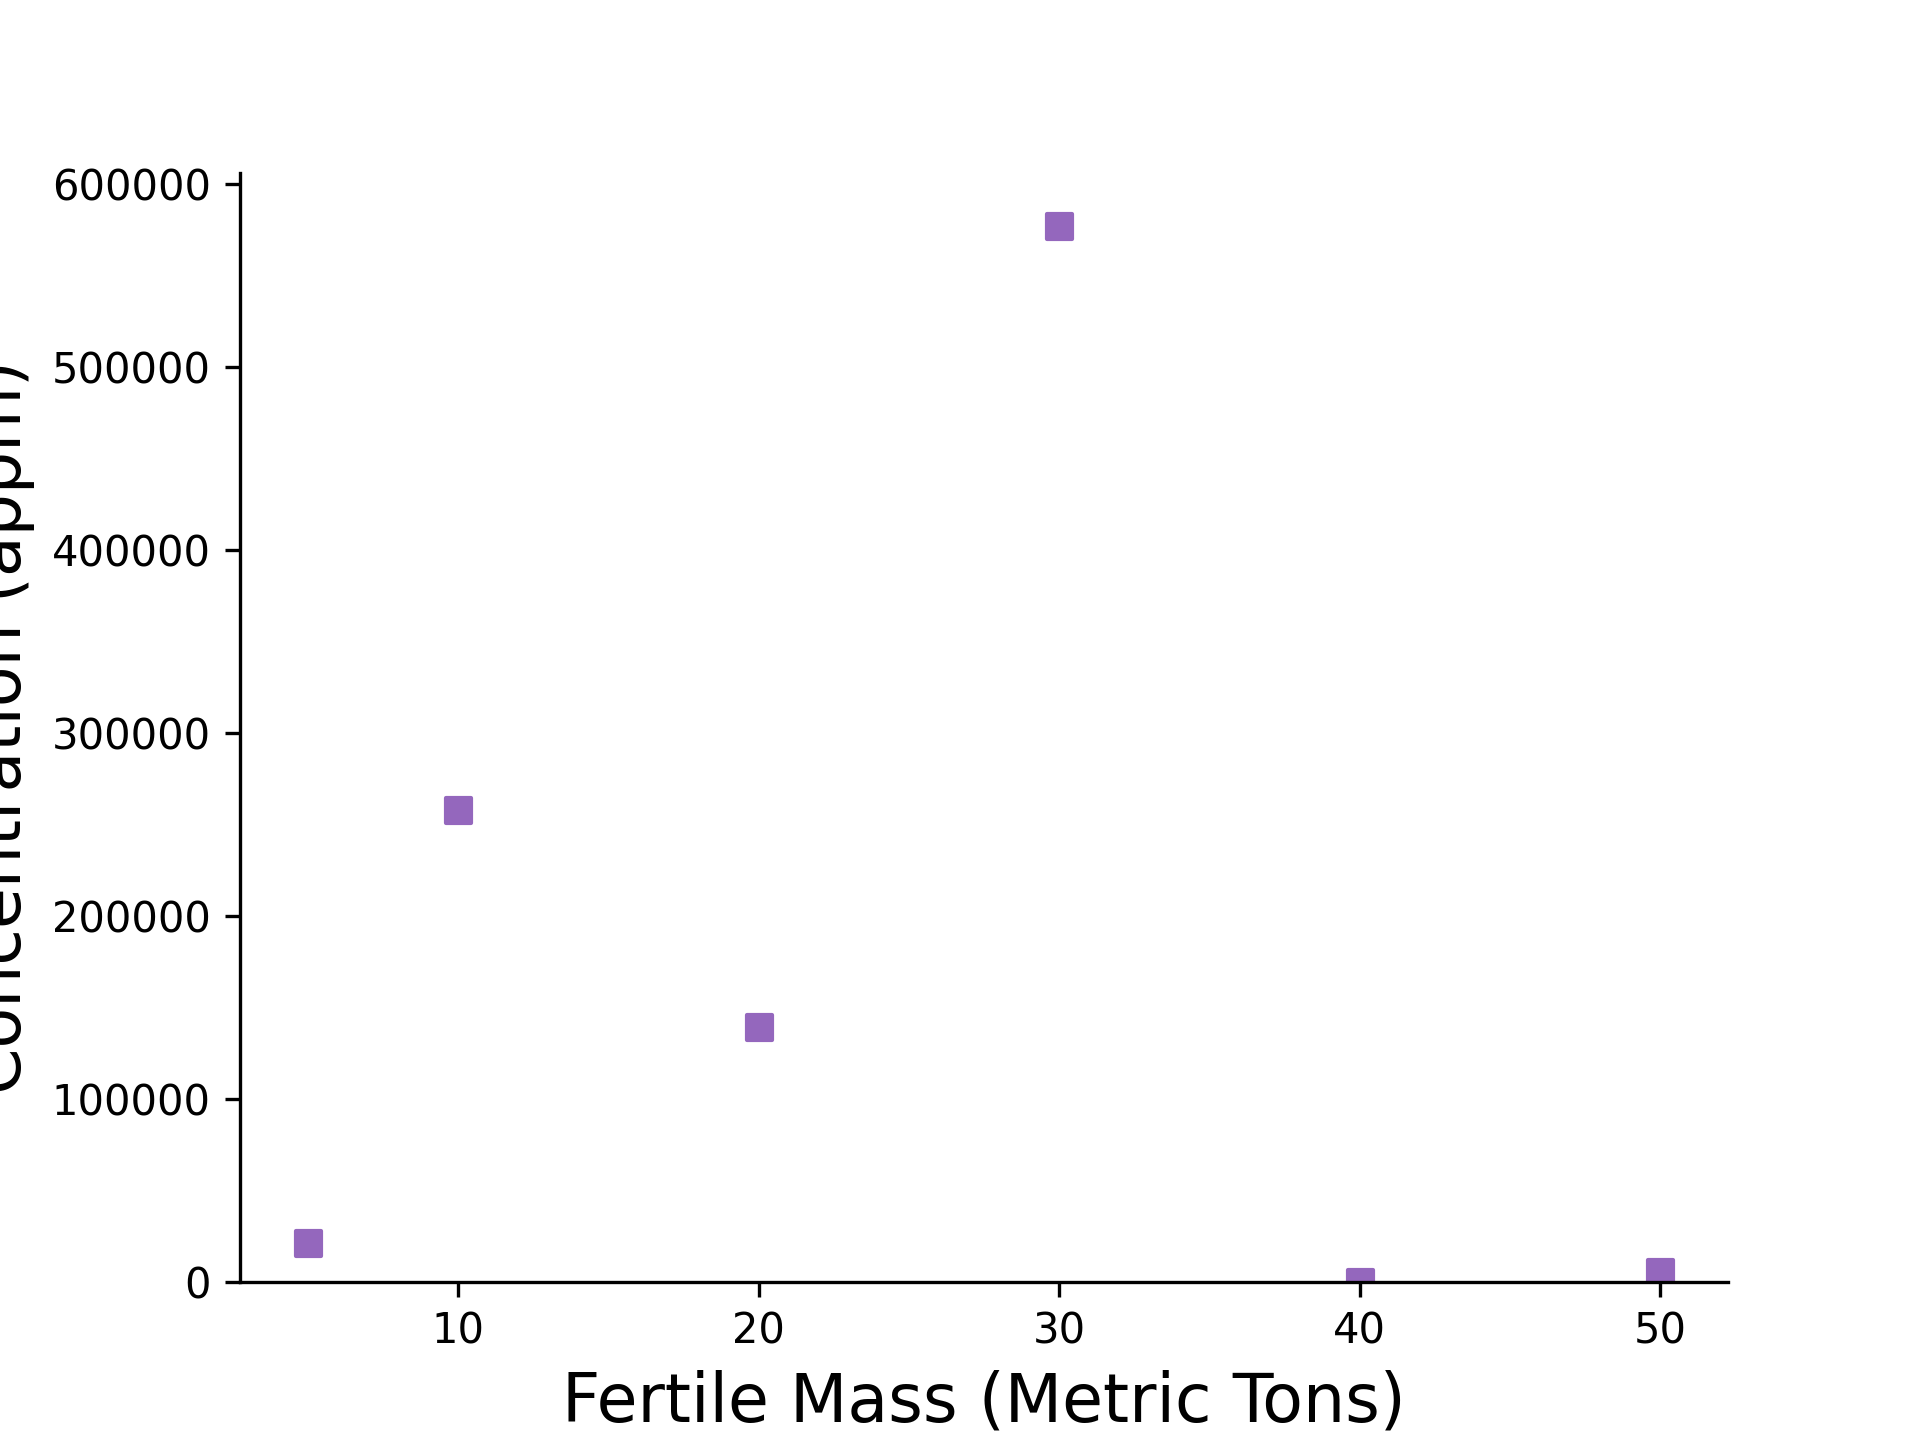
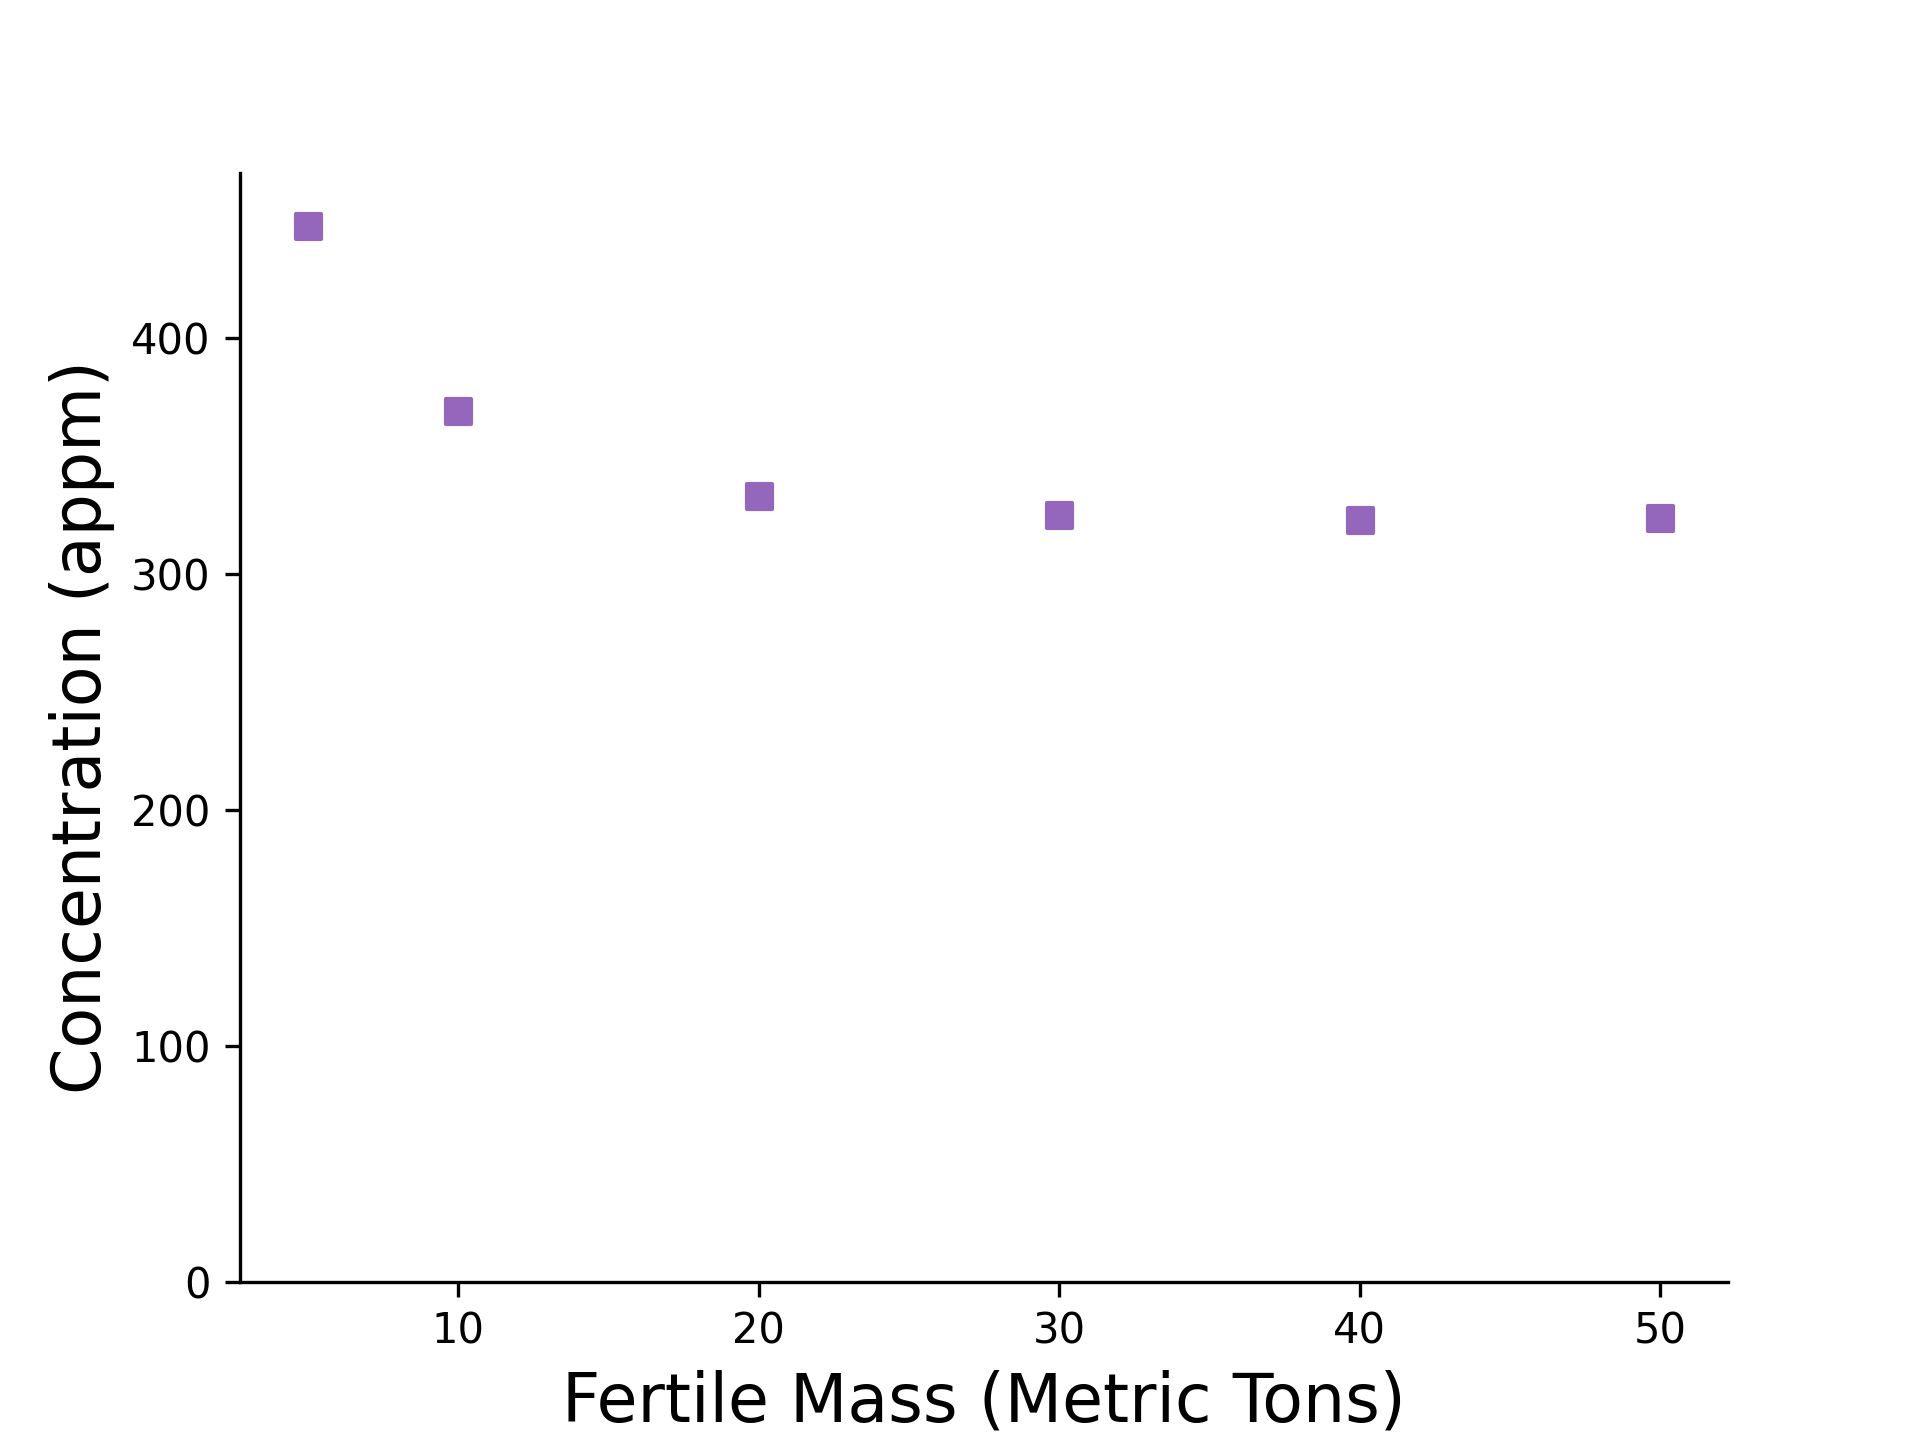
Tweak plots

diff --git a/openmc-scripts/arc-1/depletion_scan/pp-depletion-scan-arc-1.py b/openmc-scripts/arc-1/depletion_scan/pp-depletion-scan-arc-1.py
@@ -227,7 +227,8 @@ for i, mass in enumerate(masses):
     Th_purity_fit = linregress(Th_time_steps[1:], y=Th_purity[1:])
     Th_purities[i] = Th_purity_fit.slope * (Th_time_to_SQ[i]/24) + Th_purity_fit.intercept
     
-    U232_contents[i] = U232_content
+    U232_fit = linregress(Th_time_steps[1:], y=U232_content[1:])
+    U232_contents[i] = U232_fit.slope * (Th_time_to_SQ[i]/24) + U232_fit.intercept
 
     os.chdir('../../..')
 
@@ -781,16 +782,11 @@ ax.scatter(masses, Th_TBR[:, 0, 0], color=th_color, marker=th_marker, label="Th-
 
 ax.legend()
 
-ax.set_ylabel("TBR", fontdict=fontdict)
-ax.set_xlabel("Fertile Mass (metric tons)", fontdict=fontdict)
-
-ax.set_title("TBR vs. Fertile Mass at $t=0$", fontdict=fontdict)
-
-ax.legend()
-
 #ax.set_title("TBR vs. Fertile Mass at $t=0$", fontdict=fontdict, y=title_y)
 ax.set_ylabel("TBR", fontdict=fontdict)
 ax.set_xlabel("Fertile Mass (metric tons)", fontdict=fontdict)
+
+ax.set_ylim(1, 1.2)
 
 fig.savefig("fertile_tbr.png", dpi=dpi)
 fig.savefig("fertile_tbr.pdf")
